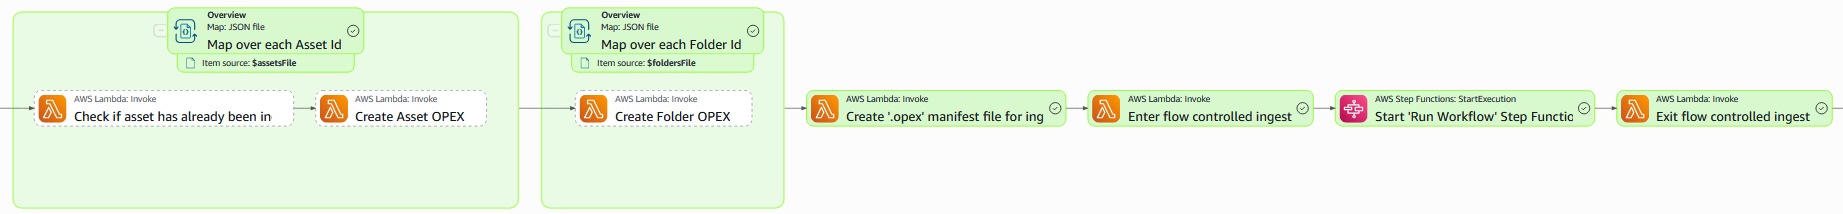
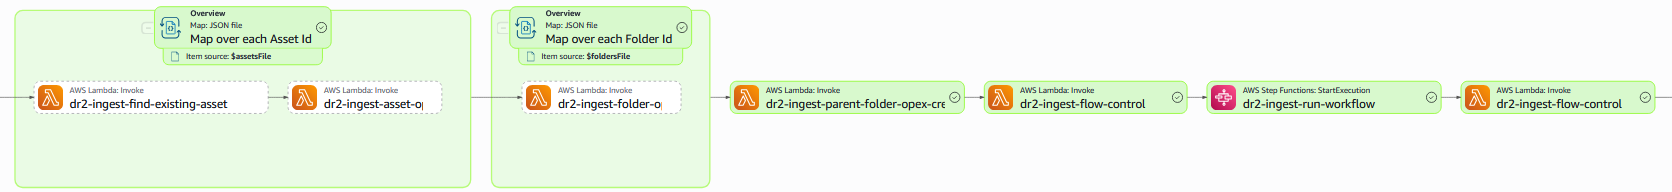
PR changes

diff --git a/docs/architecture-decision-records/0029-use-sqs-for-lambda-rate-limiting.md b/docs/architecture-decision-records/0029-use-sqs-for-lambda-rate-limiting.md
@@ -4,21 +4,24 @@
 
 ## Context
 
-When we receive many messages from upstream systems in a short burst we aggregate these into groups
-and begin the dr2-ingest Step Function rapidly. This results in many executions of the Step Function
-being started almost simultaneously. Although we have [Ingest Flow
-Control](./0024-ingest-flow-control.md) to manage the number of workflows running in the
-Preservation System, our ingest process makes API calls to the Preservation System outside of this.
-When many ingests are running simultaneously, we have no rate limiting in place for these API calls.
+When we receive many messages from upstream systems in a short burst, we [aggregate these into
+groups of a configurable size](./0020-aggregation-for-tdr-preingest.md) and begin the dr2-ingest
+Step Function rapidly; this results in many executions of the Step Function being started almost
+simultaneously. Although we have [Ingest Flow Control](./0024-ingest-flow-control.md) to manage the
+number of workflows running in the Preservation System, our ingest process makes API calls to the
+Preservation System outside of the flow controlled steps. When many executions are running
+simultaneously, we have no rate limiting in place for these API calls.
 
-We make API calls within our OPEX creation process, to check if the asset is already within the
-Preservation System and prevent re-ingesting if so, and after ingesting, to confirm the full asset
-was ingested as expected. Due to the latency of the Preservation System workflows we do not expect
-to need rate limiting for the reconciliation, but have experienced a Preservation System outage
-caused by multiple OPEX creations running in parallel. As we use Map Runs to process multiple assets
-concurrently within a single Step Function execution, the risk of overwhelming the Preservation
-System is amplified. Therefore, we will focus on rate limiting the `dr2-ingest-find-existing-asset`
-Lambda Function, but would like a solution that could be implemented for the reconciler too.
+We make API calls in the `dr2-ingest-find-existing-asset` Lambda before the OPEX creation process,
+to check if the asset is already within the Preservation System and prevent re-ingesting if so, and
+after ingesting in the `dr2-ingest-asset-reconciler` Lambda, to confirm the full asset was ingested
+as expected. Due to the latency introduced by the Preservation System workflows we do not expect to
+need rate limiting for the reconciliation step as it is unlikely for multiple executions to reach
+this simultaneously, but have experienced a Preservation System outage caused by multiple OPEX
+creations running in parallel. As we use Map Runs to process multiple assets concurrently within a
+single Step Function execution, the risk of overwhelming the Preservation System is amplified.
+Therefore, we will focus on rate limiting the `dr2-ingest-find-existing-asset` Lambda Function, but
+would like a solution that could be implemented for other Lambda functions too.
 
 ![](/docs/images/adr/0029/current-step-function-extract.png)
 
@@ -39,19 +42,19 @@ Function must then manage retries without visibility of the other running execut
 ![](/docs/images/adr/0029/option-b.png)
 
 We could implement an SQS Queue between our Step Function and the Lambda Function. Where the Step
-Function currently invokes the Lambda Function synchronously, it will instead send a message to SQS
-Queue with the Lambda event and a Task Token. The Step Function will send one message per Map Run,
-which will contain an array of Asset IDs - managed by the `ItemBatcher` within the Step Function
-definition. The Lambda Function will be modified to expect an SQS event containing this message,
-process the assets, and then use the Task Token to report back to the Step Function. For added
-protection, the Step Function State will be configured with a timeout to ensure it does not wait
-indefinitely for the Lambda to complete.
+Function currently invokes the Lambda Function synchronously, it will instead send a message to an
+SQS Queue with the Lambda event and a Task Token. The Step Function will send one message per Map
+Run which will contain an array of Asset IDs, the length of this array is managed by the
+`ItemBatcher` within the Step Function definition. The Lambda Function will be modified to expect an
+SQS event containing this message, process the assets, and then use the Task Token to report back to
+the Step Function. For added protection, the Step Function State will be configured with a timeout
+to ensure it does not wait indefinitely for the Lambda to complete.
 
 This approach provides both rate limiting and buffering. The SQS Queue will absorb bursts of
 incoming messages, allowing the Lambda Function to process them at a controlled rate. We will use
 the `MaximumConcurrency` option on the Lambda's Event Source Mapping to restrict the number of
 concurrent invocations. We will not implement a Dead Letter Queue for this new SQS Queue, as we will
-be notified of failures through our existing alerts for Step Function failures.
+be notified of failures/lost messages through our existing alerts for Step Function failures.
 
 This option will introduce latency and complexity, with a new architectural pattern involving SQS
 and Event Source Mappings for the Lambda Function. Although we will try to catch errors within the
@@ -62,14 +65,14 @@ instead.
 
 ### Option C: Move OPEX Creation into our Flow Controlled Ingest
 
-We could move the 3 states responsible for OPEX creation into in dr2-ingest to the
+We could move the 3 states responsible for OPEX creation into dr2-ingest to the
 dr2-ingest-run-workflow Step Function, moving these states to be within our Flow Controlled Ingest.
 We cannot just move the "Enter Flow Control" state earlier as this state looks at the number of
 running dr2-ingest-run-workflow executions to determine if new executions should be allowed to
 proceed.
 
 Moving these states into the Flow Controlled Ingest limits the number of Lambda invocations to the
-maximum concurrency of flow control * the maximum concurrency of the Map Runs.
+maximum concurrency of flow control multiplied by the maximum concurrency of the Map Runs.
 
 ## Decision
 
@@ -84,12 +87,12 @@ when multiple executions attempt to invoke it simultaneously.
 Option C was not chosen because it would require significant changes to the existing Step Function
 workflows and would result in many ingests moving directly into the Flow Controlled Ingest after
 validation; the ListExecutions API call made when entering Flow Control is eventually consistent and
-may not accurately reflect the current number of running executions, we suspect that the random
+may not accurately reflect the current number of running executions. We suspect that the variable
 latency introduced by OPEX creation is preventing too many dr2-ingest-run-workflow executions from
 starting simultaneously - if we moved the OPEX creation states into the Flow Controlled Ingest, we
 would lose this natural throttling effect and need to re-architect Flow Control to be more robust
 against sudden spikes in execution concurrency.
 
 This decision covers rate limiting the `dr2-ingest-find-existing-asset` Lambda only. The
-reconciler's Preservation System API calls are lower risk, as discussed above, so applying the same
-SQS-based pattern there is left as future work should rate limiting prove necessary.
+Reconciler's Preservation System API calls are lower risk, as discussed above, so applying the same
+SQS-based pattern there is left as future work, should rate limiting prove necessary.
